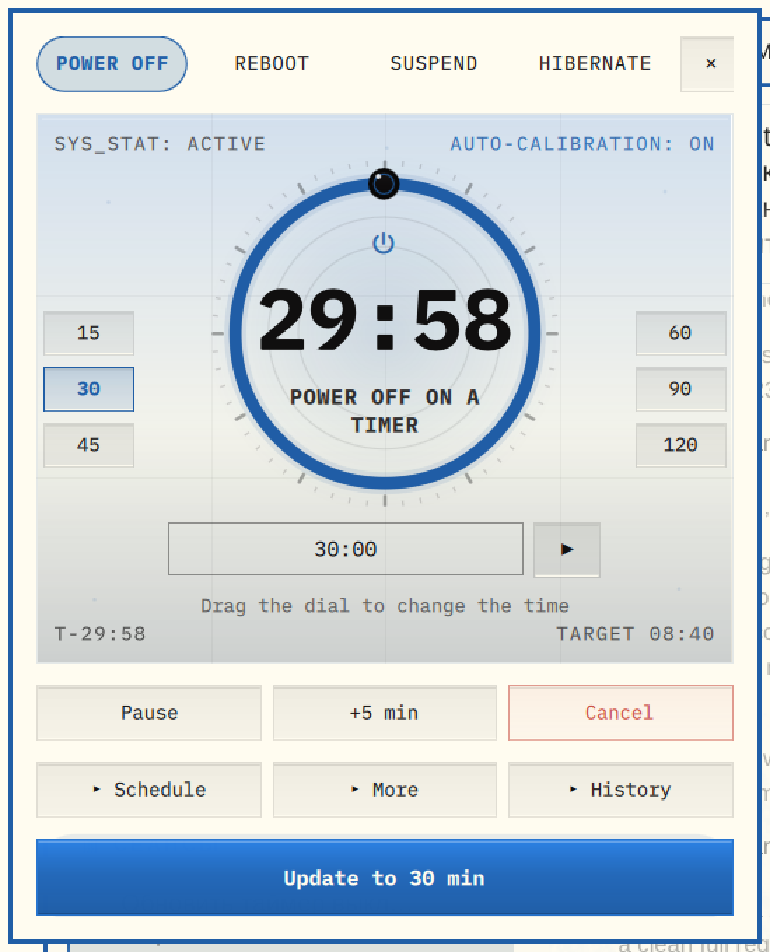
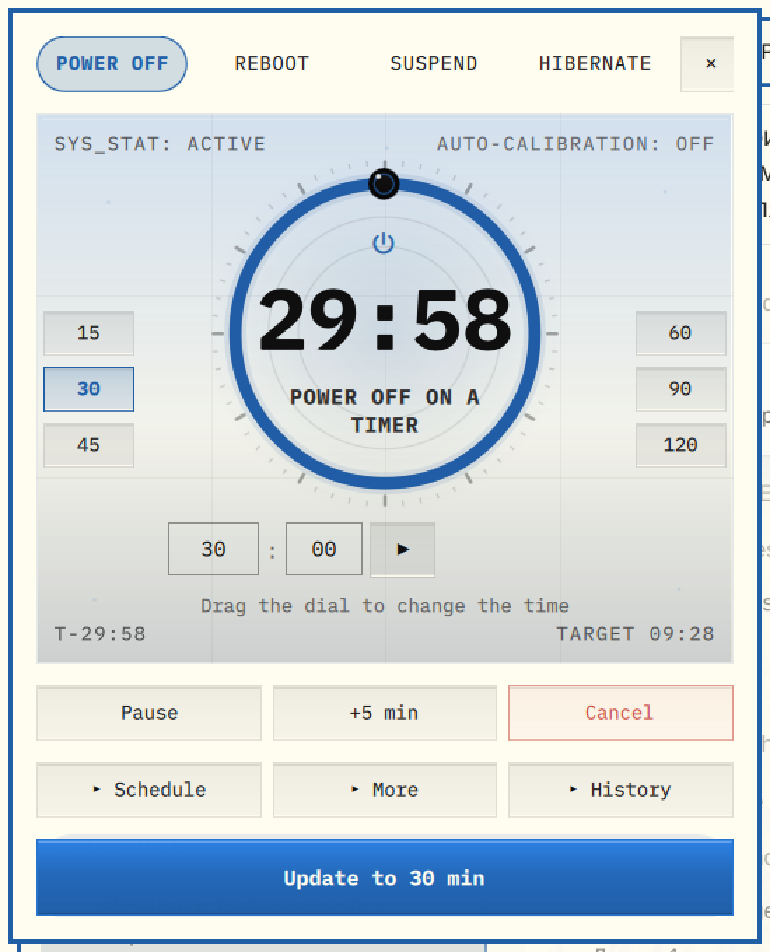
v3 stage 11: two boxes instead of a colon, a ring that follows the hand
- Exact input: minutes and seconds are two boxes with the colon printed
  between them. Tab or click moves across, arrows step, Enter or the key
  starts. No separator to type, no format to remember.
- The ring drags relatively: the value moves from the press point with the
  hand instead of jumping to the cursor. One turn = 60 min, Shift = 12 min
  (fine). Wheel over the ring = ±1 min, Shift ±5.
- The hint names the gestures (en/ru).
- tests: 16 checks, incl. the boxes starting a 40 s timer.

diff --git a/PopupContent.qml b/PopupContent.qml
@@ -30,8 +30,38 @@ Column {
 
   function minutesAt(px, py) { return dial.minutesAt(px, py) }
 
+  function wheelOnDial(delta) {
+    var step = (delta > 0 ? 1 : -1) * (host.customMinutes >= 1 ? 1 : 0)
+    host.customMinutes = Math.max(1, Math.min(720, Math.round(host.customMinutes) + step))
+  }
+
   function focusExact() {
-    exactField.forceActiveFocus()
+    mmField.forceActiveFocus()
+  }
+
+  function bump(field, delta) {
+    var v = parseInt(field.text, 10)
+    if (isNaN(v)) v = 0
+    field.text = String(Math.max(0, v + delta))
+  }
+
+  // The two boxes: minutes × 60 + seconds. The colon is printed, never typed.
+  function debugBoxes(mm, ss) {
+    mmField.text = String(mm)
+    ssField.text = String(ss)
+    submitBoxes()
+  }
+
+  function submitBoxes() {
+    var mm = parseInt(mmField.text, 10)
+    var ss = parseInt(ssField.text, 10)
+    if (isNaN(mm)) mm = Math.round(host.customMinutes)
+    if (isNaN(ss)) ss = 0
+    var secs = mm * 60 + ss
+    if (secs < 5) return
+    service.setTimerSeconds(secs, host.selectedAction)
+    mmField.text = ""
+    ssField.text = ""
   }
 
   // "1" → 60 s, "1:30" → 90 s, "30s" → 30 s. Anything under five seconds is
@@ -55,9 +85,7 @@ Column {
       return
     }
     if (secs < 5) return
-    if (secs % 60 === 0) service.setTimer(Math.round(secs / 60), host.selectedAction)
-    else service.setTimerSeconds(secs, host.selectedAction)
-    exactField.text = ""
+    service.setTimerSeconds(secs, host.selectedAction)
   }
   function scrubMax() { return dial.scrubMax }
 
@@ -303,6 +331,17 @@ Column {
                 HeroRing {
                   id: dial
                   anchors.fill: parent
+
+                  // A notch is a minute, Shift is five: the keyboard-free
+                  // way to nudge without hunting for the exact angle.
+                  WheelHandler {
+                    acceptedModifiers: Qt.NoModifier
+                    onWheel: function(event) { content.wheelOnDial(event.angleDelta.y) }
+                  }
+                  WheelHandler {
+                    acceptedModifiers: Qt.ShiftModifier
+                    onWheel: function(event) { content.wheelOnDial(event.angleDelta.y * 5) }
+                  }
                   fraction: host.heroFraction
                   running: service.status !== "IDLE"
                   paused: service.status === "PAUSED"
@@ -396,27 +435,66 @@ Column {
                 }
               }
 
-              // Exact input: "1" is a minute, "1:30" and "30s" are seconds.
+              // Exact input without a colon to type: minutes and seconds are
+              // two boxes with the separator printed between them. Tab or a
+              // click moves across; Enter or the key starts.
               Row {
+                id: exactRow
                 width: Math.round(hero.width * 0.62)
                 anchors.horizontalCenter: parent.horizontalCenter
-                spacing: Style.space(6)
+                spacing: Style.space(4)
 
                 TextField {
-                  id: exactField
-                  width: parent.width - startKey.width - parent.spacing
+                  id: mmField
+                  width: Style.space(52)
                   height: Style.space(30)
-                  placeholderText: Model.formatTime(Math.round(host.customMinutes) * 60)
+                  placeholderText: String(Math.round(host.customMinutes))
+                  validator: IntValidator { bottom: 0; top: 720 }
+                  inputMethodHints: Qt.ImhDigitsOnly
                   font.family: "monospace"
                   font.pixelSize: Style.font.body
                   color: host.popupText
                   horizontalAlignment: Text.AlignHCenter
+                  selectByMouse: true
                   background: BorderSurface {
                     color: "transparent"
                     borderSpec: Border.controlSpec("normal", host.popupText, host.popupAccent)
                     radius: Style.cornerRadius
                   }
-                  onAccepted: content.submitExact(text)
+                  onAccepted: content.submitBoxes()
+                  Keys.onDownPressed: content.bump(mmField, -1)
+                  Keys.onUpPressed: content.bump(mmField, 1)
+                }
+
+                Text {
+                  anchors.verticalCenter: parent.verticalCenter
+                  text: ":"
+                  color: host.popupText
+                  opacity: 0.6
+                  font.family: "monospace"
+                  font.pixelSize: Style.font.body
+                }
+
+                TextField {
+                  id: ssField
+                  width: Style.space(44)
+                  height: Style.space(30)
+                  placeholderText: "00"
+                  validator: IntValidator { bottom: 0; top: 59 }
+                  inputMethodHints: Qt.ImhDigitsOnly
+                  font.family: "monospace"
+                  font.pixelSize: Style.font.body
+                  color: host.popupText
+                  horizontalAlignment: Text.AlignHCenter
+                  selectByMouse: true
+                  background: BorderSurface {
+                    color: "transparent"
+                    borderSpec: Border.controlSpec("normal", host.popupText, host.popupAccent)
+                    radius: Style.cornerRadius
+                  }
+                  onAccepted: content.submitBoxes()
+                  Keys.onDownPressed: content.bump(ssField, -1)
+                  Keys.onUpPressed: content.bump(ssField, 1)
                 }
 
                 Key {
@@ -428,7 +506,7 @@ Column {
                   accentColor: host.popupAccent
                   surface: host.popupSurface
                   fontSize: Style.font.bodySmall
-                  onClicked: content.submitExact(exactField.text)
+                  onClicked: content.submitBoxes()
                 }
               }
 

diff --git a/HeroRing.qml b/HeroRing.qml
@@ -24,6 +24,11 @@ Item {
   property bool scrubbing: false
   property int scrubMinutes: 30
   property int scrubMax: 720
+  // How many minutes one full turn of the ring covers while dragging. Sixty
+  // is six degrees a minute — a hand can aim at that. Shift is the fine
+  // gear: twelve minutes a turn, so a wrist movement is a minute or two.
+  property int dragMax: 60
+  property bool fineDrag: false
   // While a timer runs a drag is a delta from the current remainder, not an
   // absolute angle: pulling past the head adds time instead of restarting the
   // countdown from a new absolute value.
@@ -296,11 +301,11 @@ Item {
   }
 
   // Signed shortest arc between two angles, in minutes.
-  function deltaMinutes(fromDeg, toDeg) {
+  function deltaMinutes(fromDeg, toDeg, scale) {
     var d = toDeg - fromDeg
     while (d > 180) d -= 360
     while (d < -180) d += 360
-    return d / 360 * root.scrubMax
+    return d / 360 * (scale === undefined ? root.dragMax : scale)
   }
 
   // Snap to five minutes: a 720-minute dial is two minutes per degree, which
@@ -323,10 +328,13 @@ Item {
     property real pressX: 0
     property real pressY: 0
     property real pressAngle: 0
+    property real dragFromValue: 0
 
     onPressed: function(mouse) {
       pressX = mouse.x; pressY = mouse.y
       pressAngle = root.angleAt(mouse.x, mouse.y)
+      dragFromValue = root.value
+      root.fineDrag = (mouse.modifiers & Qt.ShiftModifier) !== 0
       active = false
       wasDrag = false
     }
@@ -342,13 +350,11 @@ Item {
         root.scrubbing = true
         root.scrubStarted()
       }
-      var raw
-      if (root.deltaMode) {
-        raw = root.baseMinutes + root.deltaMinutes(pressAngle, root.angleAt(mouse.x, mouse.y))
-      } else {
-        raw = root.minutesAt(mouse.x, mouse.y)
-      }
-      var m = Math.max(1, Math.min(root.scrubMax, root.snapped(raw)))
+      // Relative: the ring never jumps to wherever the press landed. What
+      // the hand sweeps is what the value changes by.
+      var scale = root.fineDrag ? 12 : root.dragMax
+      var raw = root.dragFromValue
+                + root.deltaMinutes(pressAngle, root.angleAt(mouse.x, mouse.y), scale)
       root.scrubMinutes = m
       root.scrubbed(m)
     }

diff --git a/Model.js b/Model.js
@@ -67,7 +67,7 @@ var STRINGS = {
     "hero.scrub": "Drag the dial to change the time",
     "hero.delta": "%1 min to the deadline",
     "hero.snoozeRefused": "Snooze limit reached — the deadline did not move",
-    "time.hint": "Drag the dial, or scroll over the bar icon",
+    "time.hint": "Drag the ring · Shift for fine · wheel ±1 min",
     "wheel.pending": "%1 min — click to start",
     "tray.schedule": "Schedule",
     "tray.more": "More",
@@ -157,7 +157,7 @@ var STRINGS = {
     "hero.scrub": "Потяните кольцо, чтобы изменить время",
     "hero.delta": "%1 мин к выключению",
     "hero.snoozeRefused": "Лимит отложить исчерпан — время не сдвинулось",
-    "time.hint": "Потяните кольцо или покрутите колесо над иконкой в баре",
+    "time.hint": "Тяните кольцо · Shift — точно · колесо ±1 мин",
     "wheel.pending": "%1 мин — ЛКМ запустить",
     "tray.schedule": "Расписание",
     "tray.more": "Ещё",

diff --git a/Panel.qml b/Panel.qml
@@ -651,6 +651,11 @@ Panel {
     // without relying on pixels.
     // The dial's angle math, so the scrub gesture can be proven from a script
     // without a pointer: feed it a point in the ring's coordinates.
+    function debugBoxes(mm: string, ss: string): string {
+      popupContent.debugBoxes(mm, ss)
+      return JSON.stringify({ status: service.status, left: service.timeLeft })
+    }
+
     function debugFieldFocus(): string {
       popupContent.focusExact()
       return JSON.stringify({ focused: true })

diff --git a/CHANGELOG.md b/CHANGELOG.md
@@ -1,3 +1,16 @@
+## v3 stage 11 — no colon to type, a ring that does not jump
+
+- The exact input is two boxes, minutes and seconds, with the separator
+  printed between them: Tab or a click moves across, ↑/↓ steps a value,
+  Enter or ▶ starts. Nothing to remember, no colon to hunt for.
+- The ring drags **relatively**: the value moves with the hand from where the
+  press landed instead of jumping to the cursor. One turn is 60 minutes
+  (6° a minute), Shift is the fine gear at 12 minutes a turn.
+- The wheel over the ring is ±1 minute, Shift ±5 — the keyboard-free way to
+  nudge when the hand is already on the mouse.
+- The hint says what the ring does: "Drag the ring · Shift for fine · wheel
+  ±1 min" (en/ru).
+
 ## v3 stage 10 — exact time, finer dial
 
 - The caption inside the ring wraps to two lines inside 74 % of the dial, at
